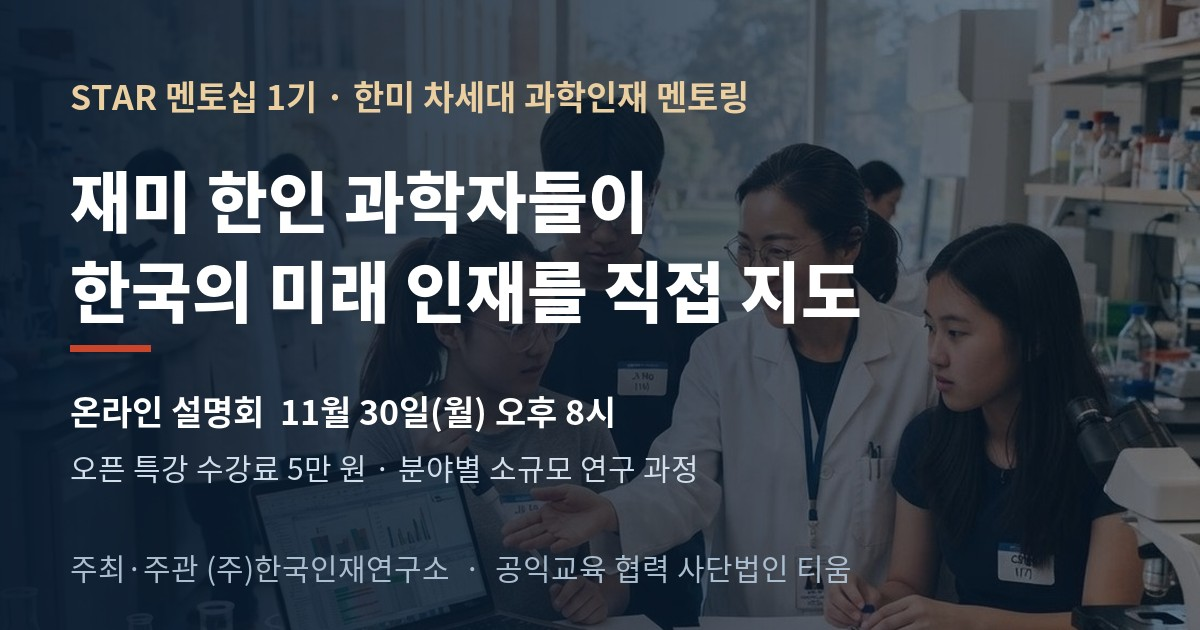
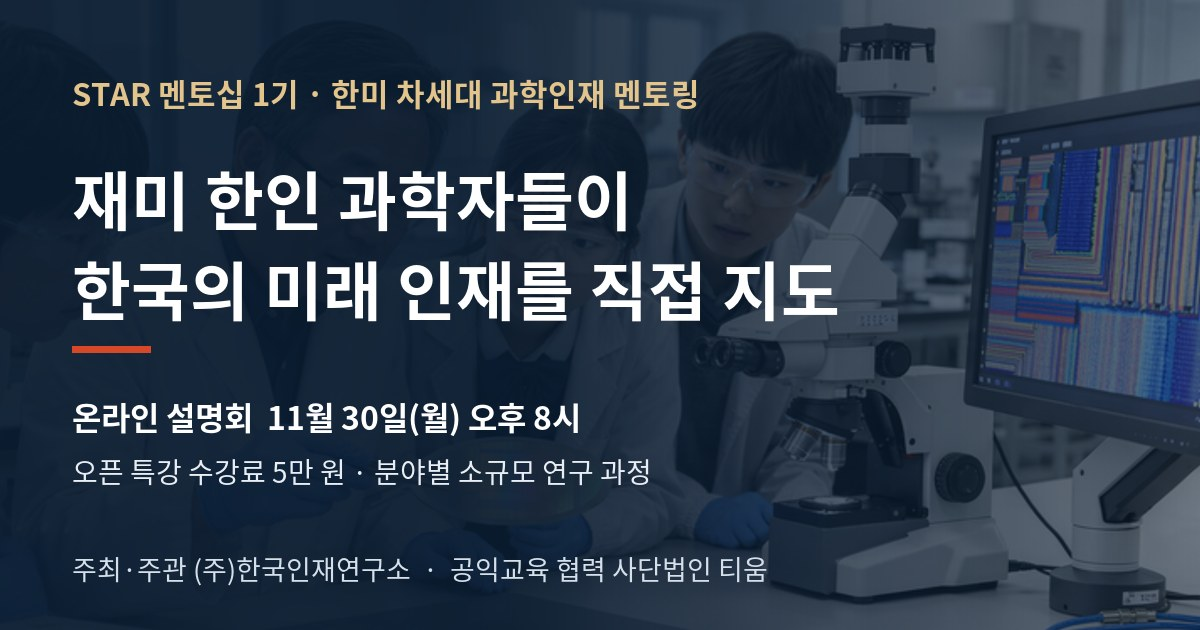
STAR 페이지 사진을 반도체 연구실 장면으로 교체
- 화학 실험실 사진(lab.jpg) 대신 프로그램 분야(반도체)에 맞는 사진(semi.jpg)으로 세 곳 교체
- 공유 미리보기 이미지(og.jpg) 새로 만들고 주소에 ?v=2
- 모바일: 첫 화면 배경 위치 조정, 플로리다 사진 띠는 설명을 사진 아래로

diff --git a/star/index.html b/star/index.html
@@ -15,7 +15,7 @@
 <meta property="og:url" content="https://talentium.co.kr/star/">
 <meta property="og:title" content="STAR 멘토십 1기 — 재미 한인 과학자들이 한국의 미래 인재를 직접 지도">
 <meta property="og:description" content="미국 주립대 한인 교수진의 연구에 고등학생이 참여하는 연구 멘토링. 온라인 설명회 11월 30일(월) 오후 8시 · 오픈 특강 수강료 5만 원.">
-<meta property="og:image" content="https://talentium.co.kr/star/og.jpg">
+<meta property="og:image" content="https://talentium.co.kr/star/og.jpg?v=2">
 <meta property="og:image:width" content="1200">
 <meta property="og:image:height" content="630">
 <meta name="twitter:card" content="summary_large_image">
@@ -241,7 +241,7 @@ section{padding:92px 0}
 
 /* wide photo band */
 .photoband{position:relative;margin-top:52px;border-radius:4px;overflow:hidden;background:var(--navy)}
-.photoband img{width:100%;height:clamp(240px,34vw,420px);object-fit:cover;opacity:.92}
+.photoband img{width:100%;height:clamp(240px,34vw,420px);object-fit:cover;object-position:50% 26%;opacity:.92}
 .photoband .cap{position:absolute;left:0;right:0;bottom:0;padding:110px 34px 30px;color:#fff;background:linear-gradient(180deg,rgba(10,32,56,0) 0%,rgba(10,32,56,.72) 46%,rgba(10,32,56,.95) 100%)}
 .photoband .cap .mono{color:var(--gold);display:block;margin-bottom:10px}
 .photoband .cap p{font-size:1.04rem;font-weight:700;letter-spacing:-.02em;max-width:680px;line-height:1.65}
@@ -452,6 +452,7 @@ footer{background:#081A2C;color:#93AEC6;padding:64px 0 42px;font-size:.85rem}
 
 /* ---------- STAR 전용 ---------- */
 .hero-bg img{object-position:50% 30%}
+@media(max-width:820px){.hero-bg img{object-position:86% 30%}}
 .hero-bg::after{background:linear-gradient(104deg,rgba(9,27,47,.97) 0%,rgba(9,27,47,.9) 38%,rgba(9,27,47,.5) 64%,rgba(9,27,47,.35) 100%),linear-gradient(180deg,rgba(9,27,47,.5) 0%,rgba(9,27,47,0) 34%,rgba(9,27,47,.78) 100%)}
 .hero h1{font-size:clamp(1.95rem,4.05vw,3rem)}
 .dl{display:grid;grid-template-columns:auto 1fr;gap:11px 18px;font-size:.92rem;margin:0}
@@ -504,6 +505,7 @@ footer{background:#081A2C;color:#93AEC6;padding:64px 0 42px;font-size:.85rem}
 .askbar{margin-top:22px;display:flex;flex-wrap:wrap;align-items:center;justify-content:space-between;gap:16px;background:var(--navy);color:#D3E0EB;border-radius:4px;padding:22px 28px}
 .askbar b{color:#fff;font-weight:900}
 .photoband small{position:absolute;right:12px;top:10px;font-size:.66rem;color:rgba(255,255,255,.8);background:rgba(10,32,56,.5);padding:2px 8px;border-radius:2px}
+@media(max-width:620px){.photoband img{display:block}.photoband .cap{position:static;padding:20px 20px 22px;background:var(--navy)}}
 @media (max-width:900px){
   .faculty{grid-template-columns:1fr;gap:26px}
   .faculty .ph img{min-height:220px}
@@ -553,7 +555,7 @@ footer{background:#081A2C;color:#93AEC6;padding:64px 0 42px;font-size:.85rem}
 </header>
 
 <header class="hero" id="top">
-  <div class="hero-bg"><img src="img/lab.jpg" alt="" fetchpriority="high"></div>
+  <div class="hero-bg"><img src="img/semi.jpg" alt="" fetchpriority="high"></div>
   <div class="wrap hero-inner">
     <div class="hero-copy">
       <span class="kbadge"><i></i>STAR 멘토십 1기 · 한미 차세대 과학인재 멘토링</span>
@@ -611,7 +613,7 @@ footer{background:#081A2C;color:#93AEC6;padding:64px 0 42px;font-size:.85rem}
         <div><b>3명은 재미한인과학기술자협회(KSEA) 회장 경력</b><span>각 분야에서 인정받은 연구자</span></div>
         <div><b>교수 직강 · 교수와 매주 연구 미팅</b><span>미국에서 직접 강의, 미팅마다 진행 상황 발표와 피드백</span></div>
       </div>
-      <div class="ph"><img src="img/lab.jpg" alt="연구실에서 연구자와 학생들이 실험 데이터를 함께 살펴보는 모습" loading="lazy"><small>이해를 돕기 위한 이미지</small></div>
+      <div class="ph"><img src="img/semi.jpg" alt="반도체 연구실에서 연구자와 학생들이 웨이퍼를 함께 살펴보는 모습" loading="lazy"><small>이해를 돕기 위한 이미지</small></div>
     </div>
   </div>
 </section>
@@ -675,7 +677,7 @@ footer{background:#081A2C;color:#93AEC6;padding:64px 0 42px;font-size:.85rem}
     </div>
     <p class="note rv">※ 반도체, 의공학·AI는 12. 28.에 진행하지 않습니다. 분야별 개설 여부는 모집 현황에 따라 확정.</p>
     <div class="photoband rv">
-      <img src="img/lab.jpg" alt="연구실에서 연구자와 학생들이 실험과 데이터 분석을 함께하는 모습" loading="lazy">
+      <img src="img/semi.jpg" alt="반도체 연구실에서 연구자와 학생들이 웨이퍼와 분석 화면을 함께 살펴보는 모습" loading="lazy">
       <small>이해를 돕기 위한 이미지</small>
       <div class="cap">
         <span class="mono">FLORIDA · 2027. 1. 18 — 1. 24</span>
